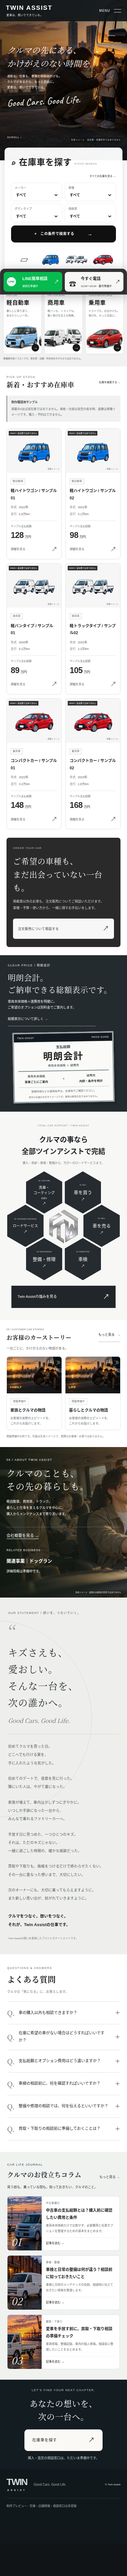
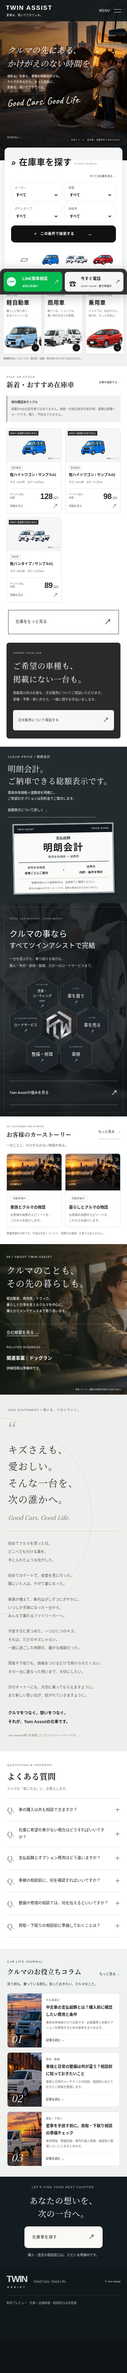
Refine compact homepage stock cards and photographic honeycomb support section

diff --git a/public/index.html b/public/index.html
@@ -1,5 +1,5 @@
 <!doctype html>
-<html lang="ja"><head><meta charset="UTF-8"><meta name="viewport" content="width=device-width,initial-scale=1"><meta name="robots" content="noindex"><meta name="description" content="Twin Assistのトップページ制作プレビュー。軽自動車・商用車の購入から、買取、車検・整備まで。"><title>Twin Assist — 愛車は、想いでできている。</title><link rel="stylesheet" href="/style.css"><link rel="stylesheet" href="/refinement.css?v=center-mark"><link rel="preload" as="image" href="/images/lifestyle-concept.png"><link rel="stylesheet" href="/inventory.css"></head>
+<html lang="ja"><head><meta charset="UTF-8"><meta name="viewport" content="width=device-width,initial-scale=1"><meta name="robots" content="noindex"><meta name="description" content="Twin Assistのトップページ制作プレビュー。軽自動車・商用車の購入から、買取、車検・整備まで。"><title>Twin Assist — 愛車は、想いでできている。</title><link rel="stylesheet" href="/style.css"><link rel="stylesheet" href="/refinement.css?v=center-mark"><link rel="preload" as="image" href="/images/lifestyle-concept.png"><link rel="stylesheet" href="/inventory.css"><link rel="stylesheet" href="/home-refresh.css"></head>
 <body><a class="skip" href="#main">本文へ移動</a>
 <aside class="side left"><a class="side-brand" href="#">TWIN<span>ASSIST</span></a><span class="vertical">クルマの先にある、かけがえのない時間を。</span><small>GOOD CARS.<br>GOOD LIFE.</small></aside>
 <aside class="side right"><span class="vertical">YOUR CAR. YOUR STORY.</span><a href="#stock" class="side-link">在庫を探す ↗</a><small>SCROLL TO EXPLORE ↓</small></aside>
@@ -7,10 +7,10 @@
 <nav id="menu" class="menu" aria-label="メニュー" hidden><a href="/strengths/">Twin Assistの強み</a><a href="/stock/">在庫一覧</a><a href="/buy/">販売・注文販売</a><a href="/sell/">買取・下取り</a><a href="/inspection/">車検</a><a href="/maintenance/">整備・修理</a><a href="/road-assistance/">ロードサービス</a><a href="/company/">会社概要</a><a href="/business/">事業内容</a><a href="/story/">お客様のカーストーリー</a><a href="/column/">コラム</a><a href="/#faq">よくある質問</a></nav>
 <main id="main"><section class="hero" aria-labelledby="hero-title"><div class="hero-art" aria-hidden="true"><div class="sun"></div><div class="hill hill-one"></div><div class="hill hill-two"></div><div class="road"></div><div class="road-line"></div></div><span class="hero-caption">生成イメージ · 実在庫・店舗写真ではありません</span><div class="hero-content"><span class="eyebrow">TWIN ASSIST / GOOD CARS. GOOD LIFE.</span><h1 id="hero-title">クルマの先にある、<br>かけがえのない時間を。</h1><p>通勤も、仕事も、家族とのお出かけも。<br>クルマがあるから、もっと自由に。<br>愛車は、想いでできている。</p><strong class="hero-sign">Good Cars. Good Life.</strong><a class="button white" href="#stock">在庫車を探す <span>↗</span></a></div><div class="hero-bottom"><span>暮らしにも、仕事にも。<br>あなたらしい一台と、その先へ。</span><span class="scroll">SCROLL ↓</span></div></section>
 <section class="search section" id="stock"><div class="section-heading"><h2><span aria-hidden="true">⌕</span> 在庫車を探す</h2><span class="eyebrow">STOCK SEARCH</span><a class="all-stock" href="/stock/">すべての在庫を見る →</a></div><form id="search-form"><div class="filters"><label>メーカー<select name="maker"><option value="">すべて</option></select></label><label>車種<select name="model"><option value="">すべて</option></select></label><label>ボディタイプ<select name="body"><option value="">すべて</option></select></label><label>価格帯<select name="price"><option value="">すべて</option></select></label></div><div class="search-bottom"><div class="chips" aria-label="用途で探す"><button type="button" data-category="all" aria-pressed="true">すべて</button><button type="button" data-category="kei" aria-pressed="false">軽自動車</button><button type="button" data-category="commercial" aria-pressed="false">商用車</button><button type="button" data-category="passenger" aria-pressed="false">乗用車</button></div><button class="button dark" type="submit">⌕　この条件で検索する <span>→</span></button></div><p id="search-result" class="result" role="status" hidden></p></form></section>
-<section class="category-guide" aria-label="車の用途から探す"><a href="/stock/?category=kei" class="category-tile daily" data-category-link="kei"><span class="eyebrow">DAILY LIFE</span><h2>軽自動車</h2><p>暮らしに寄り添う、<br>あなたらしい一台。</p><span class="circle-arrow">→</span></a><a href="/stock/?category=commercial" class="category-tile work" data-category-link="commercial"><span class="eyebrow">FOR YOUR WORK</span><h2>商用車</h2><p>軽バンも、トラックも。<br>働く毎日を支える相棒。</p><span class="circle-arrow">→</span></a><a href="/stock/?category=passenger" class="category-tile passenger" data-category-link="passenger"><span class="eyebrow">YOUR EVERYDAY DRIVE</span><h2>乗用車</h2><p>ドライブも、お出かけも。<br>毎日を、もっと自由に。</p><span class="circle-arrow">→</span></a><p class="category-note">車種案内用イラストです。実在庫・店舗・所在地を示すものではありません。</p></section><section id="inventory" class="inventory section"><div class="title-row"><div><span class="eyebrow">PICK UP STOCK</span><h2>新着・おすすめ在庫車</h2></div><a href="#stock" class="all-stock">在庫を検索する →</a></div><p class="inventory-demo-notice"><strong>制作確認用サンプル</strong>掲載の6台は実在庫ではありません。価格・仕様は架空の表示例、画像は車種イメージです。購入・予約はできません。</p><div class="vehicle-grid home-vehicle-grid"><article class="vehicle-card" data-vehicle-card data-category="kei" data-price="1280000" data-order="0" data-keywords="軽自動車 軽ハイトワゴン / サンプル01"><a href="/stock/demo-kei-01/" class="vehicle-card-link"><div class="vehicle-card-image"><span class="vehicle-demo-tag">DEMO / 実在庫ではありません</span><img src="/images/search-kei.png" width="1536" height="1024" alt="軽自動車の車種イメージイラスト" loading="lazy"><span class="vehicle-image-note">車種イメージ</span></div><div class="vehicle-card-body"><span class="vehicle-category">軽自動車</span><h3>軽ハイトワゴン / サンプル01</h3><dl class="vehicle-mini-spec"><div><dt>年式</dt><dd>2022年</dd></div><div><dt>走行</dt><dd>2.8万km</dd></div></dl><div class="vehicle-card-price"><span>サンプル支払総額</span><strong>128<small>万円</small></strong></div><span class="vehicle-card-more">詳細を見る <span aria-hidden="true">↗</span></span></div></a></article><article class="vehicle-card" data-vehicle-card data-category="kei" data-price="980000" data-order="1" data-keywords="軽自動車 軽ハイトワゴン / サンプル02"><a href="/stock/demo-kei-02/" class="vehicle-card-link"><div class="vehicle-card-image"><span class="vehicle-demo-tag">DEMO / 実在庫ではありません</span><img src="/images/search-kei.png" width="1536" height="1024" alt="軽自動車の車種イメージイラスト" loading="lazy"><span class="vehicle-image-note">車種イメージ</span></div><div class="vehicle-card-body"><span class="vehicle-category">軽自動車</span><h3>軽ハイトワゴン / サンプル02</h3><dl class="vehicle-mini-spec"><div><dt>年式</dt><dd>2021年</dd></div><div><dt>走行</dt><dd>4.1万km</dd></div></dl><div class="vehicle-card-price"><span>サンプル支払総額</span><strong>98<small>万円</small></strong></div><span class="vehicle-card-more">詳細を見る <span aria-hidden="true">↗</span></span></div></a></article><article class="vehicle-card" data-vehicle-card data-category="commercial" data-price="890000" data-order="2" data-keywords="商用車 軽バンタイプ / サンプル01"><a href="/stock/demo-commercial-01/" class="vehicle-card-link"><div class="vehicle-card-image"><span class="vehicle-demo-tag">DEMO / 実在庫ではありません</span><img src="/images/search-commercial.png" width="1536" height="1024" alt="商用車の車種イメージイラスト" loading="lazy"><span class="vehicle-image-note">車種イメージ</span></div><div class="vehicle-card-body"><span class="vehicle-category">商用車</span><h3>軽バンタイプ / サンプル01</h3><dl class="vehicle-mini-spec"><div><dt>年式</dt><dd>2020年</dd></div><div><dt>走行</dt><dd>5.2万km</dd></div></dl><div class="vehicle-card-price"><span>サンプル支払総額</span><strong>89<small>万円</small></strong></div><span class="vehicle-card-more">詳細を見る <span aria-hidden="true">↗</span></span></div></a></article><article class="vehicle-card" data-vehicle-card data-category="commercial" data-price="1050000" data-order="3" data-keywords="商用車 軽トラックタイプ / サンプル02"><a href="/stock/demo-commercial-02/" class="vehicle-card-link"><div class="vehicle-card-image"><span class="vehicle-demo-tag">DEMO / 実在庫ではありません</span><img src="/images/search-commercial.png" width="1536" height="1024" alt="商用車の車種イメージイラスト" loading="lazy"><span class="vehicle-image-note">車種イメージ</span></div><div class="vehicle-card-body"><span class="vehicle-category">商用車</span><h3>軽トラックタイプ / サンプル02</h3><dl class="vehicle-mini-spec"><div><dt>年式</dt><dd>2022年</dd></div><div><dt>走行</dt><dd>2.3万km</dd></div></dl><div class="vehicle-card-price"><span>サンプル支払総額</span><strong>105<small>万円</small></strong></div><span class="vehicle-card-more">詳細を見る <span aria-hidden="true">↗</span></span></div></a></article><article class="vehicle-card" data-vehicle-card data-category="passenger" data-price="1480000" data-order="4" data-keywords="乗用車 コンパクトカー / サンプル01"><a href="/stock/demo-passenger-01/" class="vehicle-card-link"><div class="vehicle-card-image"><span class="vehicle-demo-tag">DEMO / 実在庫ではありません</span><img src="/images/search-passenger.png" width="1536" height="1024" alt="乗用車の車種イメージイラスト" loading="lazy"><span class="vehicle-image-note">車種イメージ</span></div><div class="vehicle-card-body"><span class="vehicle-category">乗用車</span><h3>コンパクトカー / サンプル01</h3><dl class="vehicle-mini-spec"><div><dt>年式</dt><dd>2022年</dd></div><div><dt>走行</dt><dd>3.2万km</dd></div></dl><div class="vehicle-card-price"><span>サンプル支払総額</span><strong>148<small>万円</small></strong></div><span class="vehicle-card-more">詳細を見る <span aria-hidden="true">↗</span></span></div></a></article><article class="vehicle-card" data-vehicle-card data-category="passenger" data-price="1680000" data-order="5" data-keywords="乗用車 コンパクトカー / サンプル02"><a href="/stock/demo-passenger-02/" class="vehicle-card-link"><div class="vehicle-card-image"><span class="vehicle-demo-tag">DEMO / 実在庫ではありません</span><img src="/images/search-passenger.png" width="1536" height="1024" alt="乗用車の車種イメージイラスト" loading="lazy"><span class="vehicle-image-note">車種イメージ</span></div><div class="vehicle-card-body"><span class="vehicle-category">乗用車</span><h3>コンパクトカー / サンプル02</h3><dl class="vehicle-mini-spec"><div><dt>年式</dt><dd>2023年</dd></div><div><dt>走行</dt><dd>1.8万km</dd></div></dl><div class="vehicle-card-price"><span>サンプル支払総額</span><strong>168<small>万円</small></strong></div><span class="vehicle-card-more">詳細を見る <span aria-hidden="true">↗</span></span></div></a></article></div><section class="inventory-order"><div><span class="eyebrow">ORDER YOUR CAR</span><h2>ご希望の車種も、<br>掲載にない一台も。</h2><p>掲載車以外のお車も、注文販売についてご相談いただけます。<br>車種・予算・使い方から、一緒に探すお手伝いをします。</p></div><a class="button dark" href="/buy/#order">注文販売について相談する <span>↗</span></a></section></section>
+<section class="category-guide" aria-label="車の用途から探す"><a href="/stock/?category=kei" class="category-tile daily" data-category-link="kei"><span class="eyebrow">DAILY LIFE</span><h2>軽自動車</h2><p>暮らしに寄り添う、<br>あなたらしい一台。</p><span class="circle-arrow">→</span></a><a href="/stock/?category=commercial" class="category-tile work" data-category-link="commercial"><span class="eyebrow">FOR YOUR WORK</span><h2>商用車</h2><p>軽バンも、トラックも。<br>働く毎日を支える相棒。</p><span class="circle-arrow">→</span></a><a href="/stock/?category=passenger" class="category-tile passenger" data-category-link="passenger"><span class="eyebrow">YOUR EVERYDAY DRIVE</span><h2>乗用車</h2><p>ドライブも、お出かけも。<br>毎日を、もっと自由に。</p><span class="circle-arrow">→</span></a><p class="category-note">車種案内用イラストです。実在庫・店舗・所在地を示すものではありません。</p></section><section id="inventory" class="inventory section"><div class="title-row"><div><span class="eyebrow">PICK UP STOCK</span><h2>新着・おすすめ在庫車</h2></div><a href="#stock" class="all-stock">在庫を検索する →</a></div><p class="inventory-demo-notice"><strong>制作確認用サンプル</strong>掲載の6台は実在庫ではありません。価格・仕様は架空の表示例、画像は車種イメージです。購入・予約はできません。</p><div class="vehicle-grid home-vehicle-grid"><article class="vehicle-card" data-vehicle-card data-category="kei" data-price="1280000" data-order="0" data-keywords="軽自動車 軽ハイトワゴン / サンプル01"><a href="/stock/demo-kei-01/" class="vehicle-card-link"><div class="vehicle-card-image"><span class="vehicle-demo-tag">DEMO / 実在庫ではありません</span><img src="/images/search-kei.png" width="1536" height="1024" alt="軽自動車の車種イメージイラスト" loading="lazy"><span class="vehicle-image-note">車種イメージ</span></div><div class="vehicle-card-body"><span class="vehicle-category">軽自動車</span><h3>軽ハイトワゴン / サンプル01</h3><dl class="vehicle-mini-spec"><div><dt>年式</dt><dd>2022年</dd></div><div><dt>走行</dt><dd>2.8万km</dd></div></dl><div class="vehicle-card-price"><span>サンプル支払総額</span><strong>128<small>万円</small></strong></div><span class="vehicle-card-more">詳細を見る <span aria-hidden="true">↗</span></span></div></a></article><article class="vehicle-card" data-vehicle-card data-category="kei" data-price="980000" data-order="1" data-keywords="軽自動車 軽ハイトワゴン / サンプル02"><a href="/stock/demo-kei-02/" class="vehicle-card-link"><div class="vehicle-card-image"><span class="vehicle-demo-tag">DEMO / 実在庫ではありません</span><img src="/images/search-kei.png" width="1536" height="1024" alt="軽自動車の車種イメージイラスト" loading="lazy"><span class="vehicle-image-note">車種イメージ</span></div><div class="vehicle-card-body"><span class="vehicle-category">軽自動車</span><h3>軽ハイトワゴン / サンプル02</h3><dl class="vehicle-mini-spec"><div><dt>年式</dt><dd>2021年</dd></div><div><dt>走行</dt><dd>4.1万km</dd></div></dl><div class="vehicle-card-price"><span>サンプル支払総額</span><strong>98<small>万円</small></strong></div><span class="vehicle-card-more">詳細を見る <span aria-hidden="true">↗</span></span></div></a></article><article class="vehicle-card" data-vehicle-card data-category="commercial" data-price="890000" data-order="2" data-keywords="商用車 軽バンタイプ / サンプル01"><a href="/stock/demo-commercial-01/" class="vehicle-card-link"><div class="vehicle-card-image"><span class="vehicle-demo-tag">DEMO / 実在庫ではありません</span><img src="/images/search-commercial.png" width="1536" height="1024" alt="商用車の車種イメージイラスト" loading="lazy"><span class="vehicle-image-note">車種イメージ</span></div><div class="vehicle-card-body"><span class="vehicle-category">商用車</span><h3>軽バンタイプ / サンプル01</h3><dl class="vehicle-mini-spec"><div><dt>年式</dt><dd>2020年</dd></div><div><dt>走行</dt><dd>5.2万km</dd></div></dl><div class="vehicle-card-price"><span>サンプル支払総額</span><strong>89<small>万円</small></strong></div><span class="vehicle-card-more">詳細を見る <span aria-hidden="true">↗</span></span></div></a></article><article class="vehicle-card" data-vehicle-card data-category="commercial" data-price="1050000" data-order="3" data-keywords="商用車 軽トラックタイプ / サンプル02"><a href="/stock/demo-commercial-02/" class="vehicle-card-link"><div class="vehicle-card-image"><span class="vehicle-demo-tag">DEMO / 実在庫ではありません</span><img src="/images/search-commercial.png" width="1536" height="1024" alt="商用車の車種イメージイラスト" loading="lazy"><span class="vehicle-image-note">車種イメージ</span></div><div class="vehicle-card-body"><span class="vehicle-category">商用車</span><h3>軽トラックタイプ / サンプル02</h3><dl class="vehicle-mini-spec"><div><dt>年式</dt><dd>2022年</dd></div><div><dt>走行</dt><dd>2.3万km</dd></div></dl><div class="vehicle-card-price"><span>サンプル支払総額</span><strong>105<small>万円</small></strong></div><span class="vehicle-card-more">詳細を見る <span aria-hidden="true">↗</span></span></div></a></article><article class="vehicle-card" data-vehicle-card data-category="passenger" data-price="1480000" data-order="4" data-keywords="乗用車 コンパクトカー / サンプル01"><a href="/stock/demo-passenger-01/" class="vehicle-card-link"><div class="vehicle-card-image"><span class="vehicle-demo-tag">DEMO / 実在庫ではありません</span><img src="/images/search-passenger.png" width="1536" height="1024" alt="乗用車の車種イメージイラスト" loading="lazy"><span class="vehicle-image-note">車種イメージ</span></div><div class="vehicle-card-body"><span class="vehicle-category">乗用車</span><h3>コンパクトカー / サンプル01</h3><dl class="vehicle-mini-spec"><div><dt>年式</dt><dd>2022年</dd></div><div><dt>走行</dt><dd>3.2万km</dd></div></dl><div class="vehicle-card-price"><span>サンプル支払総額</span><strong>148<small>万円</small></strong></div><span class="vehicle-card-more">詳細を見る <span aria-hidden="true">↗</span></span></div></a></article><article class="vehicle-card" data-vehicle-card data-category="passenger" data-price="1680000" data-order="5" data-keywords="乗用車 コンパクトカー / サンプル02"><a href="/stock/demo-passenger-02/" class="vehicle-card-link"><div class="vehicle-card-image"><span class="vehicle-demo-tag">DEMO / 実在庫ではありません</span><img src="/images/search-passenger.png" width="1536" height="1024" alt="乗用車の車種イメージイラスト" loading="lazy"><span class="vehicle-image-note">車種イメージ</span></div><div class="vehicle-card-body"><span class="vehicle-category">乗用車</span><h3>コンパクトカー / サンプル02</h3><dl class="vehicle-mini-spec"><div><dt>年式</dt><dd>2023年</dd></div><div><dt>走行</dt><dd>1.8万km</dd></div></dl><div class="vehicle-card-price"><span>サンプル支払総額</span><strong>168<small>万円</small></strong></div><span class="vehicle-card-more">詳細を見る <span aria-hidden="true">↗</span></span></div></a></article></div><a class="home-stock-more" href="/stock/">在庫をもっと見る <span aria-hidden="true">↗</span></a><section class="inventory-order"><div><span class="eyebrow">ORDER YOUR CAR</span><h2>ご希望の車種も、<br>掲載にない一台も。</h2><p>掲載車以外のお車も、注文販売についてご相談いただけます。<br>車種・予算・使い方から、一緒に探すお手伝いをします。</p></div><a class="button dark" href="/buy/#order">注文販売について相談する <span>↗</span></a></section></section>
 <section class="price section" aria-labelledby="price-title"><div class="price-intro"><span class="eyebrow">CLEAR PRICE / 明朗会計</span><h2 id="price-title">明朗会計。<br>ご納車できる総額表示です。</h2><p>車両本体価格＋諸費用を明確に。<br>ご希望のオプションは別料金でご案内します。</p><a class="text-link" href="/buy/#price-guide">総額表示について詳しく →</a></div><div class="price-board" aria-label="支払総額の仕組みを示すデザイン"><div class="board-top"><span>TWIN ASSIST</span><span>PRICE GUIDE</span></div><div class="board-total"><span class="board-label">支払総額</span><strong>明朗会計</strong><small>車両本体価格 ＋ 諸費用</small></div><div class="board-breakdown"><div><span>車両本体価格</span><strong>実車ごとにご案内</strong></div><span aria-hidden="true">＋</span><div><span>諸費用</span><strong>内訳・条件を明示</strong></div></div><p>登録地域などの適用条件は、各車両でご確認ください。</p><small class="board-disclaimer">表示の仕組みを示すイメージです。車両の販売広告ではありません。</small></div></section>
 
-<section id="services" class="services section strengths-teaser strengths-stacked" aria-labelledby="strengths-teaser-title"><div class="strengths-copy"><span class="eyebrow">TOTAL CAR SUPPORT / TWIN ASSIST</span><h2 id="strengths-teaser-title">クルマの事なら<br><span>全部ツインアシストで完結</span></h2><p class="strengths-summary">購入・売却・車検・整備から、万が一のロードサービスまで。</p></div><div class="honeycomb honeycomb-six" role="group" aria-label="ツインアシストを中心につながる6つのサポート"><a class="hex-node hex-buy" href="/strengths/#buy"><span class="hex-inner"><span class="hex-en">01 / BUY</span><strong>車を買う</strong><small>在庫販売・注文販売</small><span class="hex-arrow" aria-hidden="true">↗</span></span></a><a class="hex-node hex-sell" href="/strengths/#sell"><span class="hex-inner"><span class="hex-en">02 / SELL</span><strong>車を売る</strong><small>買取・下取り</small><span class="hex-arrow" aria-hidden="true">↗</span></span></a><a class="hex-node hex-inspection" href="/strengths/#inspection"><span class="hex-inner"><span class="hex-en">03 / INSPECTION</span><strong>車検</strong><small>乗り続けるために</small><span class="hex-arrow" aria-hidden="true">↗</span></span></a><a class="hex-node hex-maintenance" href="/strengths/#maintenance"><span class="hex-inner"><span class="hex-en">04 / MAINTENANCE</span><strong>整備・修理</strong><small>毎日の安心へ</small><span class="hex-arrow" aria-hidden="true">↗</span></span></a><a class="hex-node hex-road" href="/strengths/#road-assistance"><span class="hex-inner"><span class="hex-en">05 / ROADSIDE ASSISTANCE</span><strong>ロードサービス</strong><small>万が一のときも</small><span class="hex-arrow" aria-hidden="true">↗</span></span></a><a class="hex-node hex-wash" href="/strengths/#wash-coating"><span class="hex-inner"><span class="hex-en">06 / CAR CARE</span><strong>洗車・<br>コーティング</strong><small class="wash-coming">準備中</small><span class="hex-arrow" aria-hidden="true">↗</span></span></a><a class="hex-core" href="/strengths/" aria-label="Twin Assistの強みを見る"><img src="/images/twin-logo-mark.png?v=center-mark" width="1280" height="1280" alt="Twin Assistのロゴマーク"></a></div><a class="strengths-link strengths-bottom-cta" href="/strengths/">Twin Assistの強みを見る <span aria-hidden="true">↗</span></a></section>
+<section id="services" class="services section strengths-teaser strengths-stacked strengths-atmosphere" aria-labelledby="strengths-teaser-title"><div class="strengths-copy"><span class="eyebrow">TOTAL CAR SUPPORT / TWIN ASSIST</span><h2 id="strengths-teaser-title">クルマの事なら<br><span>すべてツインアシストで完結</span></h2><p class="strengths-summary">一台を選ぶ日も、乗り続ける毎日も。<br>購入・売却・車検・整備、万が一のロードサービスまで。</p></div><div class="honeycomb honeycomb-six" role="group" aria-label="ツインアシストを中心につながる6つのサポート"><a class="hex-node hex-buy" href="/strengths/#buy"><span class="hex-inner"><span class="hex-en">01 / BUY</span><strong>車を買う</strong><small>在庫販売・注文販売</small><span class="hex-arrow" aria-hidden="true">↗</span></span></a><a class="hex-node hex-sell" href="/strengths/#sell"><span class="hex-inner"><span class="hex-en">02 / SELL</span><strong>車を売る</strong><small>買取・下取り</small><span class="hex-arrow" aria-hidden="true">↗</span></span></a><a class="hex-node hex-inspection" href="/strengths/#inspection"><span class="hex-inner"><span class="hex-en">03 / INSPECTION</span><strong>車検</strong><small>乗り続けるために</small><span class="hex-arrow" aria-hidden="true">↗</span></span></a><a class="hex-node hex-maintenance" href="/strengths/#maintenance"><span class="hex-inner"><span class="hex-en">04 / MAINTENANCE</span><strong>整備・修理</strong><small>毎日の安心へ</small><span class="hex-arrow" aria-hidden="true">↗</span></span></a><a class="hex-node hex-road" href="/strengths/#road-assistance"><span class="hex-inner"><span class="hex-en">05 / ROADSIDE ASSISTANCE</span><strong>ロードサービス</strong><small>万が一のときも</small><span class="hex-arrow" aria-hidden="true">↗</span></span></a><a class="hex-node hex-wash" href="/strengths/#wash-coating"><span class="hex-inner"><span class="hex-en">06 / CAR CARE</span><strong>洗車・<br>コーティング</strong><small class="wash-coming">準備中</small><span class="hex-arrow" aria-hidden="true">↗</span></span></a><a class="hex-core" href="/strengths/" aria-label="Twin Assistの強みを見る"><img src="/images/twin-logo-mark.png?v=center-mark" width="1280" height="1280" alt="Twin Assistのロゴマーク"></a></div><a class="strengths-link strengths-bottom-cta" href="/strengths/">Twin Assistの強みを見る <span aria-hidden="true">↗</span></a></section>
 <section id="story" class="story section"><div class="title-row"><div><span class="eyebrow">05 / CUSTOMER CAR STORIES</span><h2>お客様のカーストーリー</h2></div><a class="all-stock story-more" href="/story/">もっと見る <span aria-hidden="true">→</span></a></div><p class="story-intro">一台ごとに、かけがえのない物語がある。</p><div class="customer-story-grid"><article class="customer-story-card"><div class="customer-story-visual visual-1" aria-hidden="true"><span>FAMILY</span></div><div class="customer-story-body"><span class="story-preparing">掲載準備中</span><h3>家族とクルマの物語</h3><p>お客様の実際のエピソードを、<br>これからお届けします。</p></div></article><article class="customer-story-card"><div class="customer-story-visual visual-2" aria-hidden="true"><span>LIFE</span></div><div class="customer-story-body"><span class="story-preparing">掲載準備中</span><h3>暮らしとクルマの物語</h3><p>お客様の実際のエピソードを、<br>これからお届けします。</p></div></article><article class="customer-story-card"><div class="customer-story-visual visual-3" aria-hidden="true"><span>WORK</span></div><div class="customer-story-body"><span class="story-preparing">掲載準備中</span><h3>仕事とクルマの物語</h3><p>お客様の実際のエピソードを、<br>これからお届けします。</p></div></article></div><p class="story-disclaimer">掲載準備中の枠です。写真は生成イメージで、実際のお客様・お車ではありません。</p></section>
 <section id="about" class="about section"><div class="about-image" aria-hidden="true"></div><span class="about-photo-caption">生成イメージ · 実際のお客様の写真ではありません</span><span class="eyebrow">06 / ABOUT TWIN ASSIST</span><h2>クルマのことも、<br>その先の暮らしも。</h2><div class="about-columns"><p>軽自動車、商用車、トラック。<br>暮らしと仕事を支えるクルマを中心に、<br>購入からメンテナンスまで寄り添います。</p><div class="related"><a class="about-company-link" href="/company/">会社概要を見る →</a><span class="tiny">RELATED BUSINESS</span><h3>関連事業｜ドッグラン</h3><p>詳細情報は準備中です。</p></div></div></section>
 <section class="statement section" aria-labelledby="statement-title"><span class="eyebrow">OUR STATEMENT / 想いを、つないでいく。</span><div class="statement-layout"><div class="statement-heading"><span class="statement-mark" aria-hidden="true">“</span><h2 id="statement-title">キズさえも、<br>愛おしい。<br>そんな一台を、<br>次の誰かへ。</h2><span class="statement-sign">Good Cars. Good Life.</span></div><div class="statement-copy"><p>初めてクルマを買った日。<br>どこへでも行ける翼を、<br>手に入れたような気がした。</p><p>初めてのデートで、夜景を見に行った。<br>隣にいた人は、やがて妻になった。</p><p>家族が増えて、車内は少しずつにぎやかに。<br>いつしか手狭になった一台から、<br>みんなで乗れるファミリーカーへ。</p><p>手放す日に見つめた、一つひとつのキズ。<br>それは、ただのキズじゃない。<br>一緒に過ごした時間の、確かな痕跡だった。</p><p>買取や下取りも、価格をつけるだけで終わらせたくない。<br>その一台に重なった想いまで、大切にしたい。</p><p>次のオーナーにも、大切に乗ってもらえますように。<br>また新しい思い出が、紡がれていきますように。</p><p class="statement-last">クルマをつなぐ。想いをつなぐ。<br>それが、Twin Assistの仕事です。</p><span class="statement-caption">Twin Assistの想いを表現したブランドステートメントです。</span></div></div></section>

diff --git a/public/home-refresh.css b/public/home-refresh.css
@@ -1,0 +1,52 @@
+/* Compact stock cards, with a three-card mobile preview. */
+.home-stock-more{display:flex;align-items:center;justify-content:space-between;max-width:340px;min-height:54px;padding:15px 22px;margin:30px auto 0;border:1px solid #262b2f;color:#262b2f;font-size:13px;transition:background .2s,color .2s}
+.home-stock-more:hover{background:#262b2f;color:white;opacity:1}.home-stock-more span{font-size:22px}
+.home-vehicle-grid{gap:20px}.home-vehicle-grid .vehicle-card-link{display:flex;flex-direction:column;aspect-ratio:55/85}
+.home-vehicle-grid .vehicle-card-image{height:auto;flex:0 0 43%;min-height:0;padding:25px 12px 15px}
+.home-vehicle-grid .vehicle-card-body{padding:14px 16px;flex:1;display:flex;flex-direction:column;min-height:0}
+.home-vehicle-grid .vehicle-card h3{font-size:14px;line-height:1.5;margin:9px 0 6px}
+.home-vehicle-grid .vehicle-category{align-self:flex-start}
+.home-vehicle-grid .vehicle-mini-spec{margin:5px 0;font-size:10px;gap:13px}
+.home-vehicle-grid .vehicle-card-price{margin-top:auto;padding-top:9px;gap:5px}
+.home-vehicle-grid .vehicle-card-more{margin-top:7px;font-size:10px;line-height:1.3}
+.home-vehicle-grid .vehicle-card-price>strong{font-size:29px}
+/* A photographic service spread: silver lines, dark glass and the supplied mark. */
+#services.strengths-atmosphere{display:grid;grid-template-columns:1.1fr 1fr;grid-template-rows:auto auto;column-gap:35px;row-gap:28px;padding:72px 40px;position:relative;isolation:isolate;text-align:left;background:#15191b;border:0;color:#fff}
+#services.strengths-atmosphere:before{display:block;content:'';position:absolute;inset:0;z-index:-2;background:linear-gradient(90deg,#101416d9,#111619c9 50%,#0b0e10ee),url('/images/workshop-detail.png') center/cover no-repeat;pointer-events:none}
+#services.strengths-atmosphere:after{content:'';position:absolute;inset:24px;border:1px solid #ffffff20;z-index:-1;pointer-events:none}
+#services.strengths-atmosphere .strengths-copy{grid-column:2;grid-row:1;align-self:end}
+#services.strengths-atmosphere .strengths-copy>.eyebrow{color:#adb6bc;font-size:8px;letter-spacing:.18em}
+#services.strengths-atmosphere .strengths-copy h2{font-size:clamp(22px,2.7vw,34px);font-weight:500;line-height:1.65;letter-spacing:.02em;margin:22px 0;color:#fff}
+#services.strengths-atmosphere .strengths-copy h2>span{color:#fff;display:block;font-size:.88em;line-height:1.75}
+#services.strengths-atmosphere .strengths-copy>.strengths-summary{color:#c0c6ca;font-size:11px;line-height:2.1;max-width:350px;margin:0}
+#services.strengths-atmosphere .honeycomb-six{grid-column:1;grid-row:1/3;width:100%;max-width:480px;margin:0;align-self:center}
+#services.strengths-atmosphere .hex-node{background:#aab2b755;transition:background .2s}
+#services.strengths-atmosphere .hex-node:before{background:#1c2226e8;inset:1px}
+#services.strengths-atmosphere .hex-inner strong{font-size:16px;font-weight:500}
+#services.strengths-atmosphere .hex-road .hex-inner strong,#services.strengths-atmosphere .hex-wash .hex-inner strong{font-size:13px}
+#services.strengths-atmosphere .hex-en{font-size:6px;color:#9ca9b1}
+#services.strengths-atmosphere .hex-inner .wash-coming{color:#aeb9bf}
+#services.strengths-atmosphere .hex-node:hover,#services.strengths-atmosphere .hex-node:focus-visible{background:#e7ebed}
+#services.strengths-atmosphere .hex-node:hover:before,#services.strengths-atmosphere .hex-node:focus-visible:before{background:#394249}
+#services.strengths-atmosphere .strengths-bottom-cta{grid-column:2;grid-row:2;align-self:start;max-width:100%;background:transparent;border:0;border-top:1px solid #9ea9ae88;border-bottom:1px solid #9ea9ae88;padding:19px 0;margin:0;color:#fff;font-size:12px}
+#services.strengths-atmosphere .strengths-bottom-cta:hover{background:#ffffff0a}
+@media(max-width:767px){
+.home-vehicle-grid{gap:12px}.home-vehicle-grid .vehicle-card:nth-child(n+4){display:none}
+.home-vehicle-grid .vehicle-card-link{aspect-ratio:55/85}.home-vehicle-grid .vehicle-card-image{flex-basis:40%;padding:22px 6px 12px}
+.home-vehicle-grid .vehicle-card-body{padding:10px}.home-vehicle-grid .vehicle-card h3{font-size:11px;line-height:1.5;margin:6px 0}
+.home-vehicle-grid .vehicle-category{font-size:7px;padding:1px 4px}.home-vehicle-grid .vehicle-mini-spec{display:flex;flex-wrap:wrap;gap:2px 8px;font-size:8px;margin:2px 0 7px;line-height:1.5}.home-vehicle-grid .vehicle-mini-spec>div{gap:4px;margin:0}
+.home-vehicle-grid .vehicle-card-price{display:flex;align-items:center;padding-top:7px}.home-vehicle-grid .vehicle-card-price>span{font-size:7px;max-width:48px;line-height:1.4;margin:0}.home-vehicle-grid .vehicle-card-price>strong{font-size:24px;white-space:nowrap}.home-vehicle-grid .vehicle-card-price small{font-size:8px;margin-left:2px}.home-vehicle-grid .vehicle-card-more{font-size:8px;margin-top:5px}.home-vehicle-grid .vehicle-card-more>span{font-size:16px}.home-stock-more{margin-top:23px;font-size:12px}
+#services.strengths-atmosphere{grid-template-columns:1fr;grid-template-rows:auto auto auto;padding:42px 24px 35px;gap:22px}
+#services.strengths-atmosphere:before{background-image:linear-gradient(180deg,#101416d9,#12181bd9 55%,#0b0f11ed),url('/images/workshop-detail.png');background-position:65% center}
+#services.strengths-atmosphere:after{inset:12px}
+#services.strengths-atmosphere .strengths-copy{grid-column:1;grid-row:1;padding:0 5px}
+#services.strengths-atmosphere .strengths-copy h2{font-size:25px;margin:18px 0 15px;line-height:1.6}
+#services.strengths-atmosphere .strengths-copy h2>span{font-size:20px;line-height:1.65;max-width:280px}
+#services.strengths-atmosphere .strengths-copy>.eyebrow{font-size:7px}
+#services.strengths-atmosphere .strengths-copy>.strengths-summary{font-size:10px;margin:0;max-width:290px}
+#services.strengths-atmosphere .honeycomb-six{grid-column:1;grid-row:2;width:92%;max-width:350px;margin:0}
+#services.strengths-atmosphere .hex-inner strong{font-size:13px}#services.strengths-atmosphere .hex-road .hex-inner strong,#services.strengths-atmosphere .hex-wash .hex-inner strong{font-size:10px}
+#services.strengths-atmosphere .hex-en{font-size:5px}
+#services.strengths-atmosphere .strengths-bottom-cta{grid-column:1;grid-row:3;margin:0 5px;width:calc(100% - 10px);padding:17px 0;font-size:11px}
+}
+@media(prefers-reduced-motion:reduce){.home-stock-more,#services.strengths-atmosphere .hex-node{transition:none}}
